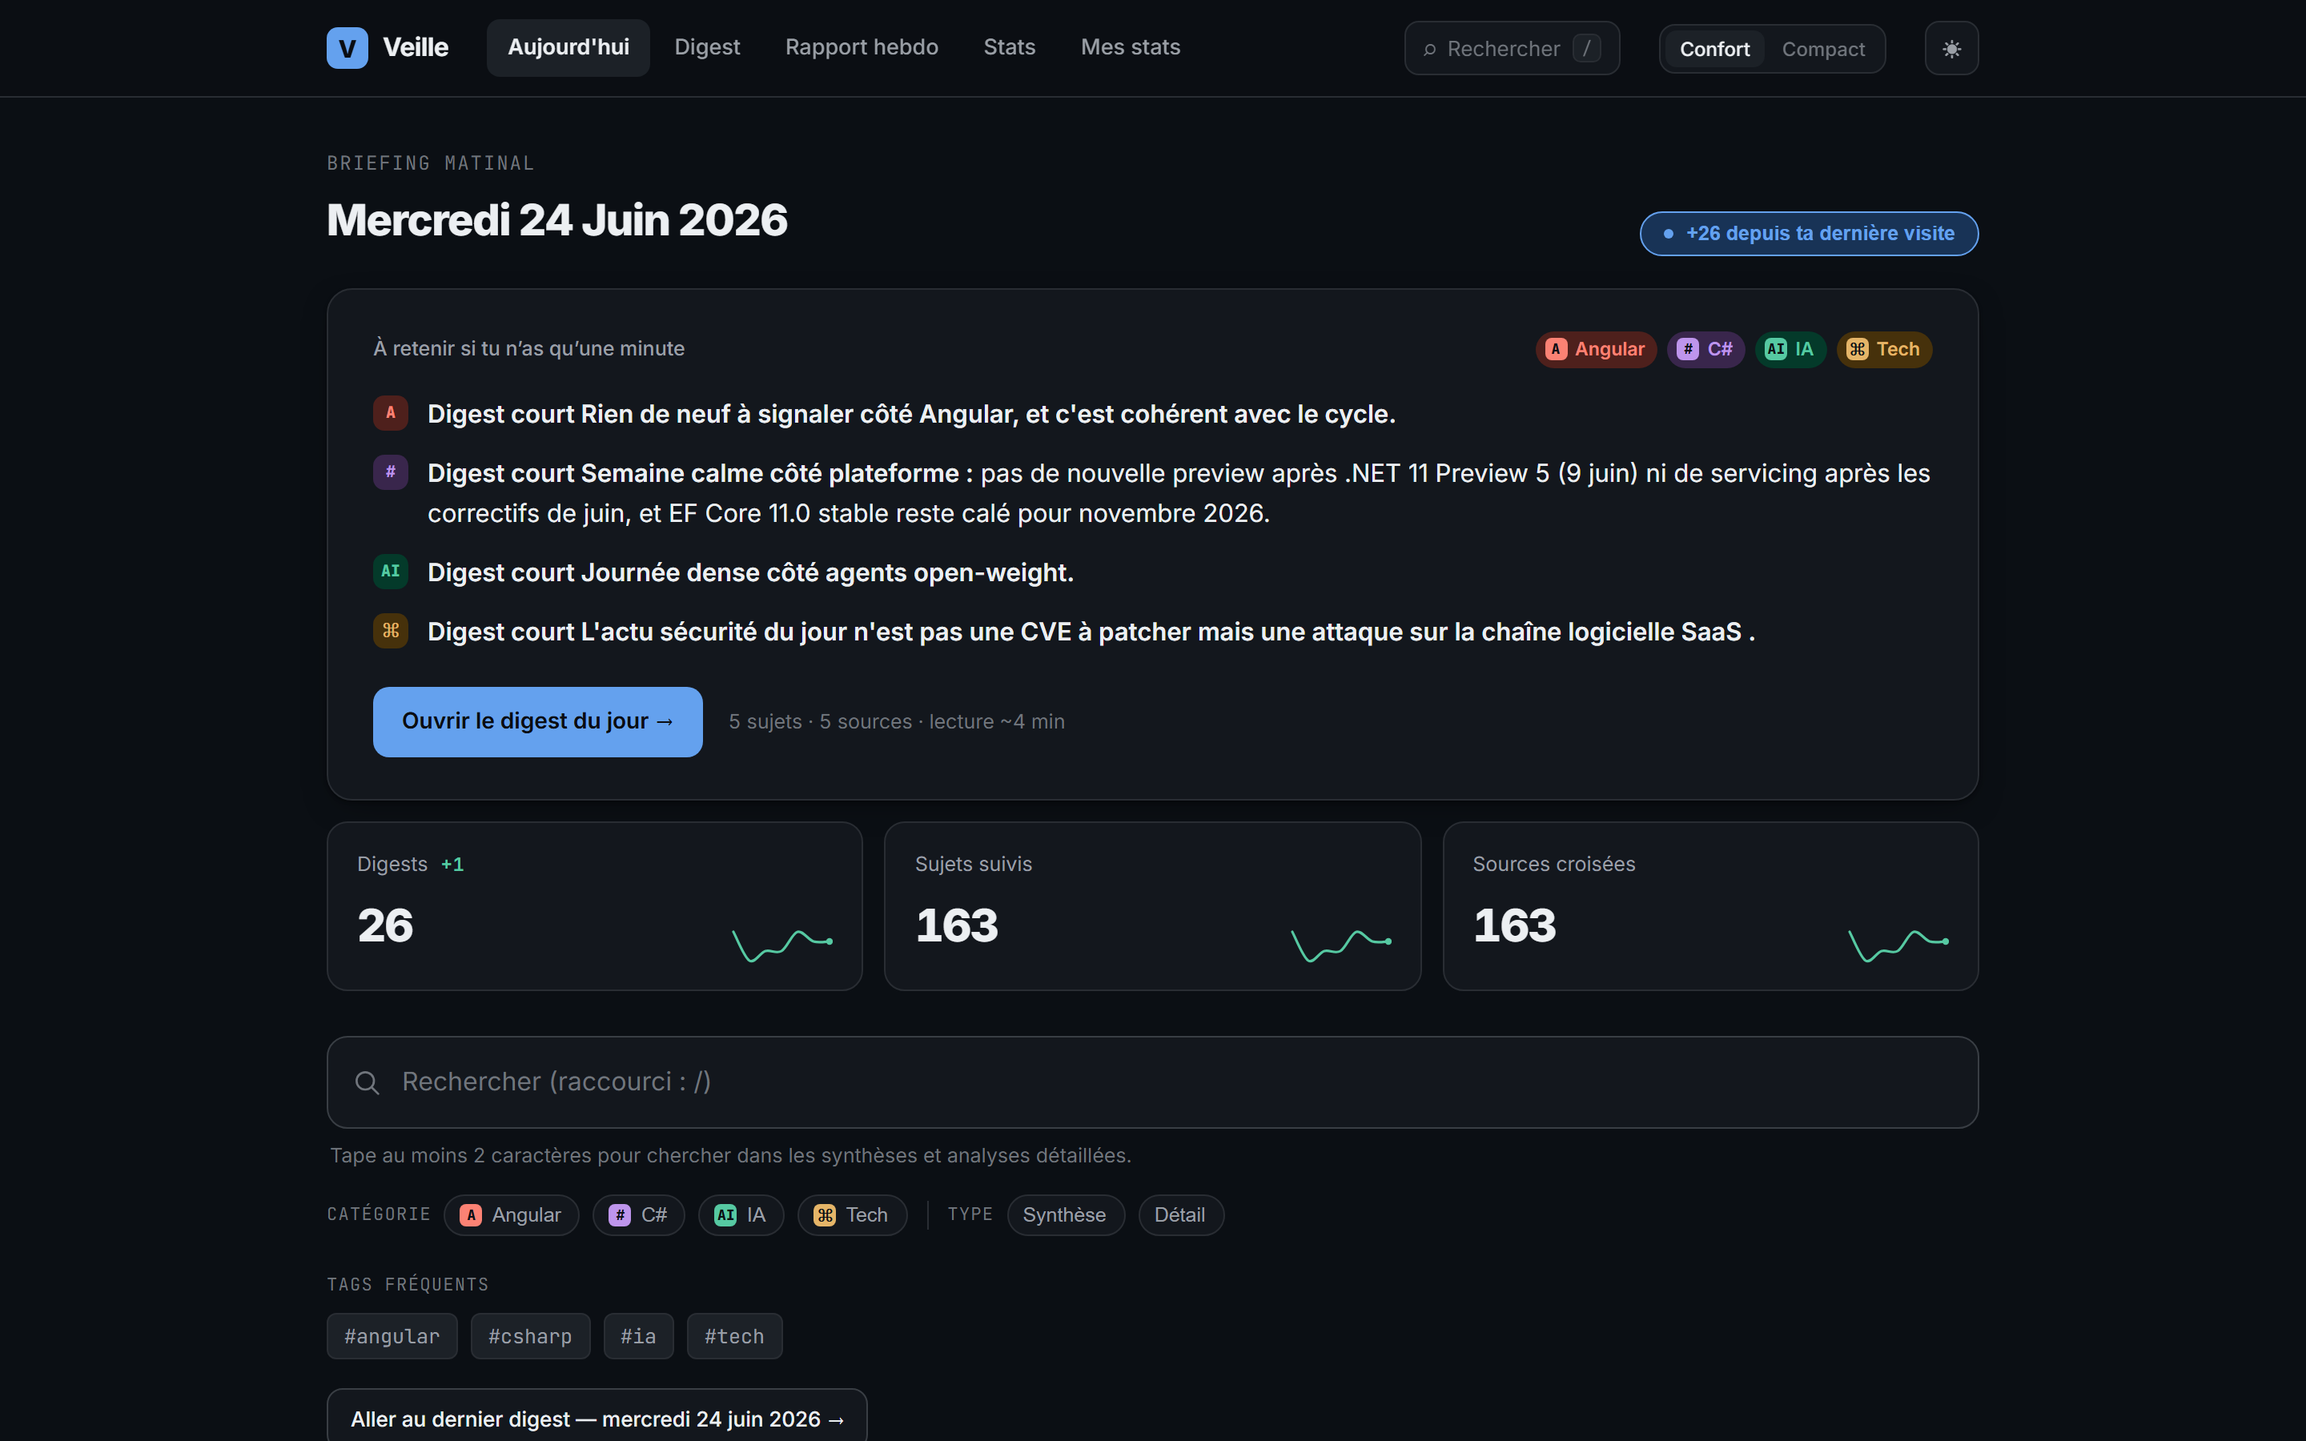
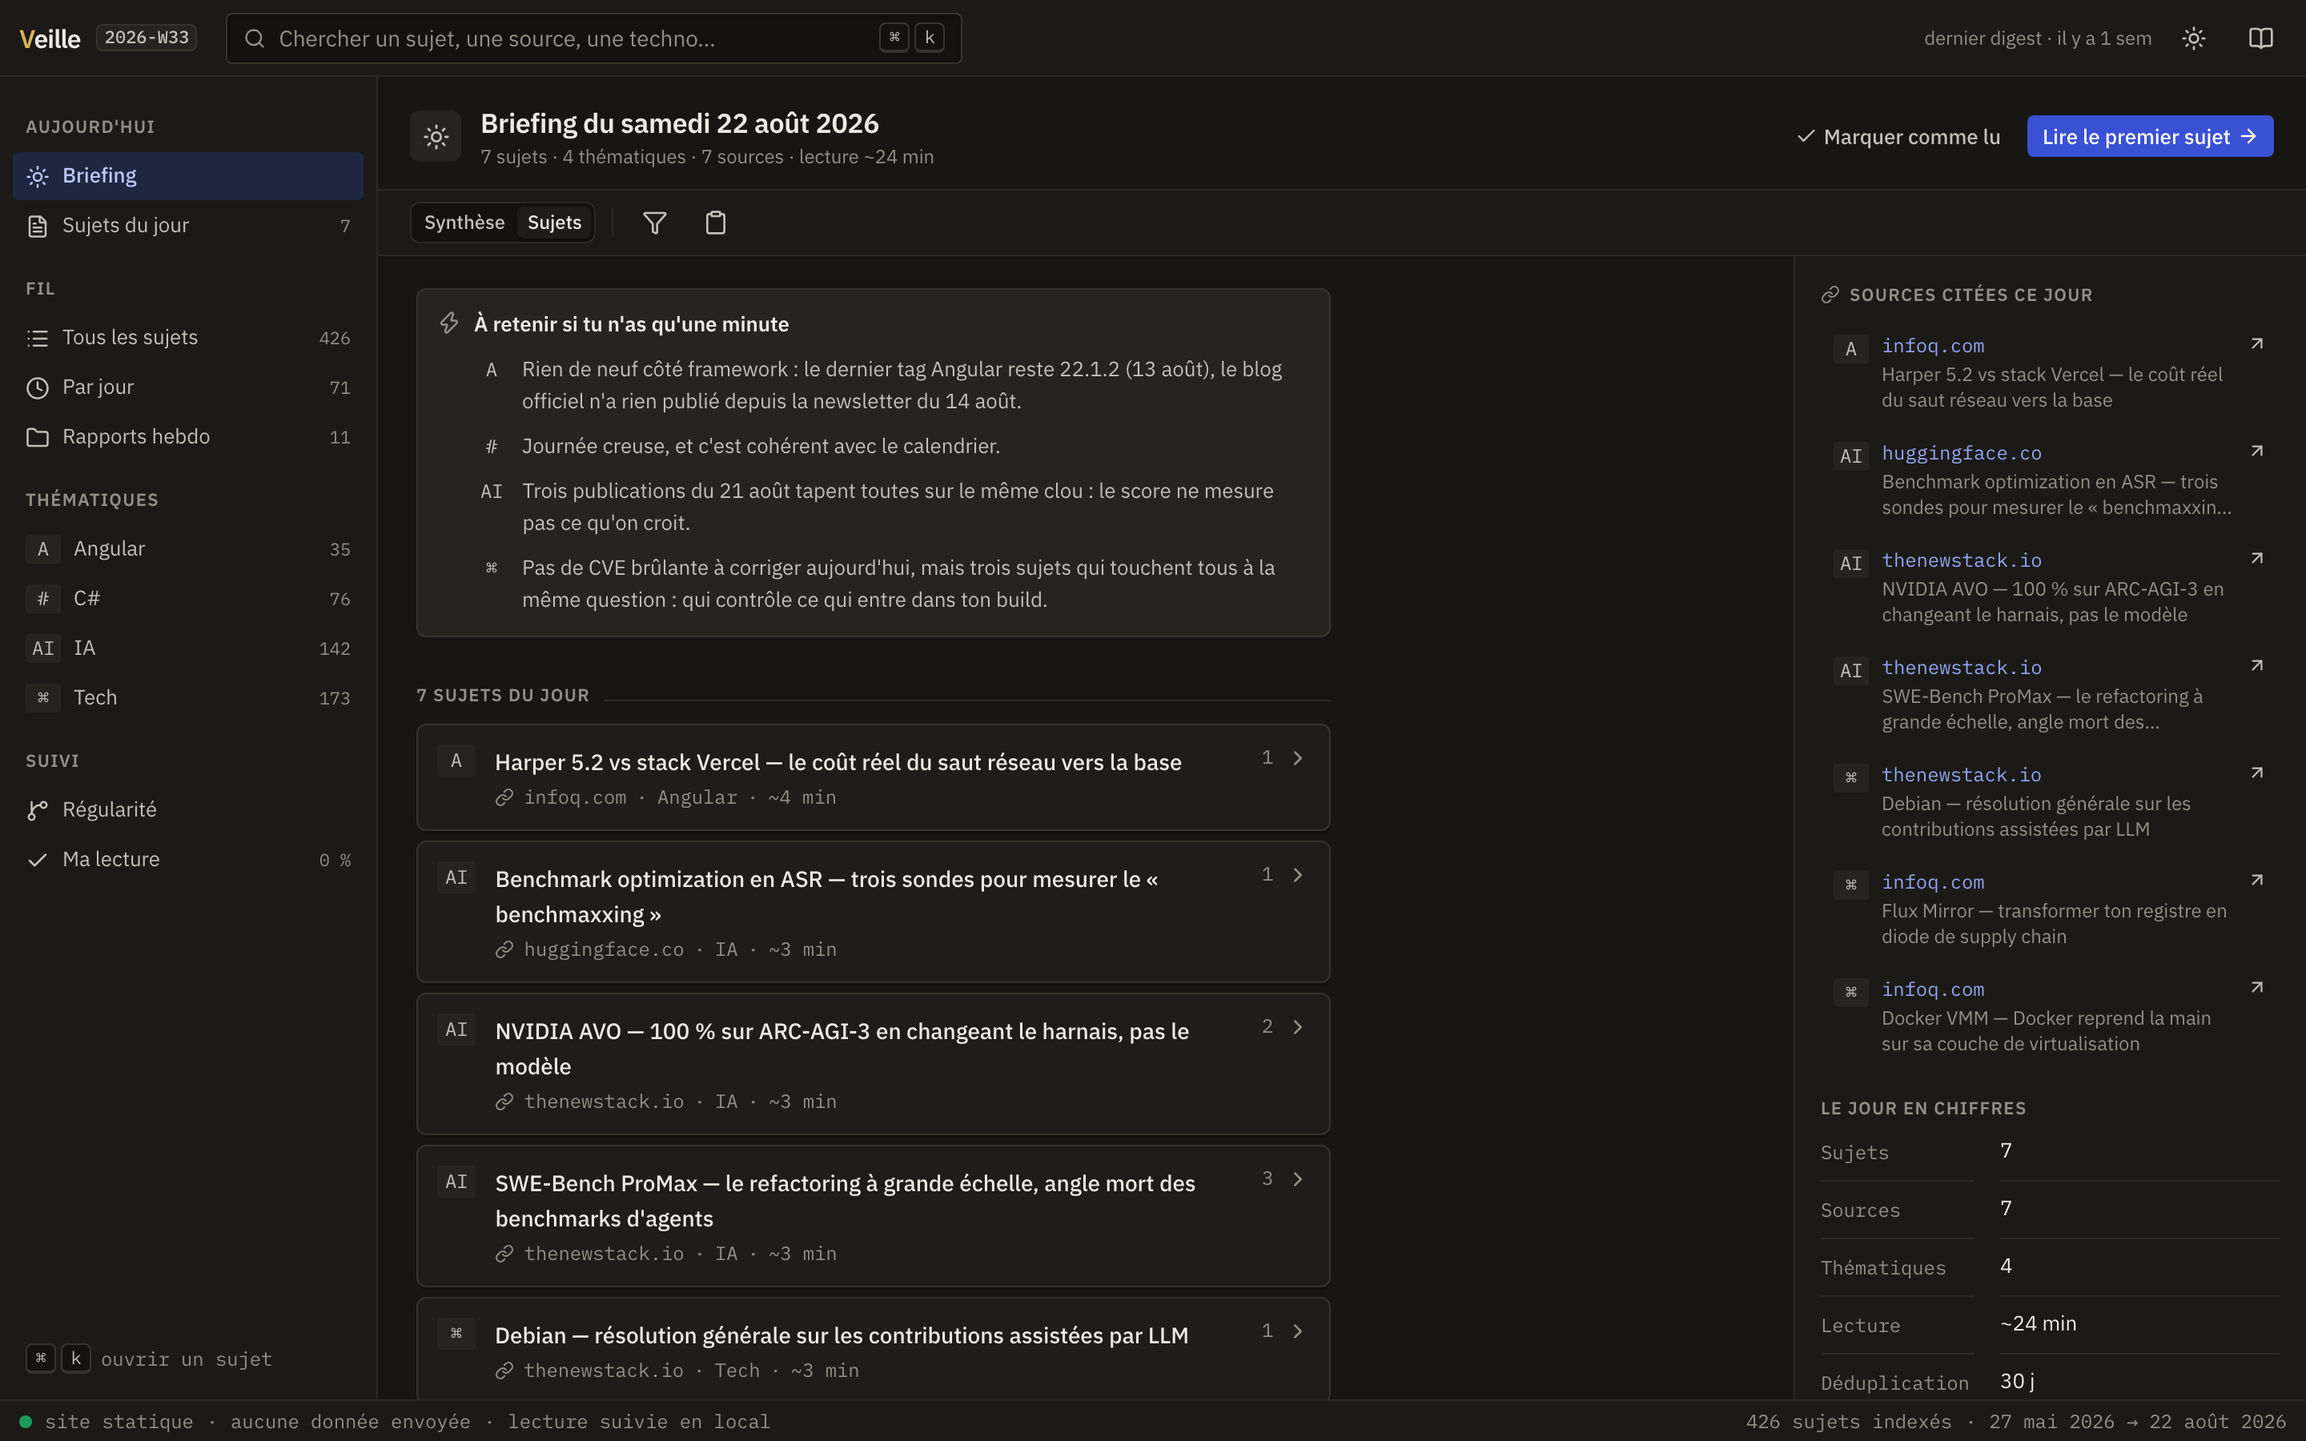
docs: actualiser la documentation et les captures après la refonte

diff --git a/README.md b/README.md
@@ -37,7 +37,7 @@ Des routines planifiées parcourent chaque jour l'actualité des thématiques su
 ---
 
 <div align="center">
-  <img src="docs/screenshots/home.png" alt="Page d'accueil — briefing du jour, KPIs et recherche" width="80%" />
+  <img src="docs/screenshots/home.png" alt="Briefing du jour — ce qu'il faut retenir, les sujets, les sources" width="80%" />
 </div>
 
 ## <img src="https://api.iconify.design/lucide/info.svg?color=%236366f1" width="22" height="22" alt="" /> En bref
@@ -68,28 +68,32 @@ Le tout est déduit du contenu : ajouter une thématique ne demande **aucune lig
 
 ## <img src="https://api.iconify.design/lucide/image.svg?color=%236366f1" width="22" height="22" alt="" /> Aperçu
 
-| Briefing du jour | Vue détaillée d'un rapport |
+| Briefing du jour | Lecture d'un sujet |
 |---|---|
-| ![Accueil](docs/screenshots/home.png) | ![Digest](docs/screenshots/digest.png) |
-| **Statistiques & régularité** | **Rapports hebdomadaires** |
-| ![Stats](docs/screenshots/stats.png) | ![Rapports](docs/screenshots/rapports.png) |
+| ![Briefing](docs/screenshots/home.png) | ![Lecteur de sujet](docs/screenshots/digest.png) |
+| **Le fil — tous les sujets** | **Régularité** |
+| ![Fil](docs/screenshots/fil.png) | ![Régularité](docs/screenshots/stats.png) |
+| **Rapports hebdomadaires** | **Thème clair** |
+| ![Rapports](docs/screenshots/rapports.png) | ![Thème clair](docs/screenshots/home-light.png) |
 
 <div align="center">
-  <img src="docs/screenshots/home-light.png" alt="Thème clair" width="48%" />
-  <img src="docs/screenshots/mobile-home.png" alt="Vue mobile" width="22%" />
+  <img src="docs/screenshots/mobile-home.png" alt="Vue mobile" width="24%" />
 </div>
 
-<p align="center"><em>Thème clair/sombre · responsive jusqu'au mobile.</em></p>
+<p align="center"><em>Sous 900px, le rail devient une barre d'onglets et le tiroir « … » ouvre la navigation complète.</em></p>
 
 ## <img src="https://api.iconify.design/lucide/list-checks.svg?color=%236366f1" width="22" height="22" alt="" /> Fonctionnalités
 
-- **Briefing quotidien** — « à retenir en 1 minute », accès direct au dernier digest, badge « nouveau ».
-- **Recherche plein-texte** — index construit au build, snippets surlignés, filtres par catégorie / type (synthèse, détail) / tags.
-- **Page rapport** — onglets par catégorie, bascule synthèse ↔ détail, sujets dépliables, sources citées.
-- **Statistiques** — heatmap de régularité, courbe de volume, répartition par catégorie, KPIs.
-- **Rapports hebdomadaires** — synthèses transversales par semaine ISO.
+- **Briefing du jour** — « à retenir en 1 minute » par thématique, les sujets du jour, les sources citées, les chiffres du jour, et les jours précédents à portée de clic.
+- **Lecteur de sujet** — un mini-cours par sujet : sommaire, source primaire, enchaînement précédent/suivant, plus deux vues alternatives (« code seul », « sources »). Permalien `?sujet=<thématique>-<n>`.
+- **Le fil** — les 400+ sujets de tous les jours dans un tableau dense, filtrable par thématique et par période.
+- **Par jour** — l'historique, une accroche générée par digest.
+- **Palette ⌘K** — recherche par titre de sujet, puis plein texte sur le corps des digests ; navigation au clavier.
+- **Régularité** — heatmap façon GitHub, courbe de volume, répartition de l'effort par thématique.
+- **Rapports hebdomadaires** — synthèses transversales par semaine ISO, plage de dates dérivée de l'identifiant.
+- **Ma lecture** — suivi lu/non-lu tenu en local (`localStorage`), jamais envoyé.
 - **Code & diagrammes** — coloration syntaxique **au build** (Shiki, thème dual light/dark), diagrammes **Mermaid** rendus côté client en lazy.
-- **Thème clair/sombre** persistant, mode confort/compact, accessible (axe-core en CI).
+- **Thème clair/sombre** persistant, profondeur de lecture mémorisée, accessible (axe-core + Lighthouse en CI).
 
 ## <img src="https://api.iconify.design/lucide/workflow.svg?color=%236366f1" width="22" height="22" alt="" /> Comment ça marche
 
@@ -119,6 +123,7 @@ Veille/
 ├── docs/                   # Documentation (archi, design, captures)
 ├── config/                 # Vhosts Apache (templates versionnés)
 ├── archive/                # Anciens rapports gelés (dont recaps quotidiens)
+├── compose.yaml            # Environnement local (build statique + nginx)
 └── DIGEST_FORMAT.md        # Contrat de format imposé aux routines
 ```
 
@@ -144,11 +149,27 @@ Architecture **data-driven** :
 
 App **Angular 20** standalone (signals, control-flow natif, `inject()`), **statique** (SSG/prerender) — aucun backend.
 
+### Avec Docker (recommandé)
+
+```bash
+docker compose up --build   # → http://localhost:4200
+```
+
+Le conteneur **construit** le site statique puis le sert avec nginx, en reprenant
+les en-têtes du vhost de production (CSP stricte, repli SPA, cache long sur les
+assets hashés). Pas de serveur de développement : après une modification du code
+ou de `report/`, relancer `docker compose up --build`.
+
+Image finale : **~43 Mo** — le build Node vit dans une étape jetée.
+
+### En local
+
 ```bash
 cd web
 npm install
-npm run dev      # http://localhost:4200
-npm run build    # → web/dist/veille/browser/ (statique)
+npm run generate   # obligatoire au premier lancement : émet src/app/data/generated/
+npm start          # http://localhost:4200
+npm run build      # → web/dist/veille/browser/ (statique, prebuild inclus)
 ```
 
 | Script | Rôle |
@@ -179,8 +200,8 @@ Configuration Apache (templates) : [`config/README.md`](config/README.md).
 | [`DIGEST_FORMAT.md`](DIGEST_FORMAT.md) | Contrat de format des rapports |
 | [`web/README.md`](web/README.md) | Détails techniques du viewer Angular |
 | [`docs/architecture-report.md`](docs/architecture-report.md) | Rapport d'architecture (migration Svelte → Angular) |
-| [`docs/design-analysis.md`](docs/design-analysis.md) | Analyse UX/UI + direction visuelle |
-| [`docs/claude-design-brief.md`](docs/claude-design-brief.md) | Brief de redesign pour Claude Design |
+| [`docs/design-analysis.md`](docs/design-analysis.md) | Analyse UX/UI + direction visuelle (le *pourquoi*) |
+| [`docs/claude-design-brief.md`](docs/claude-design-brief.md) | Brief de refonte remis à Claude Design — **réalisé** |
 
 ## <img src="https://api.iconify.design/lucide/copy-x.svg?color=%236366f1" width="22" height="22" alt="" /> Déduplication
 

diff --git a/web/README.md b/web/README.md
@@ -64,6 +64,33 @@ the ISO week id from the filename (overridable via optional `week`/`range` front
 newest-first `weeklies` list. Surfaced at `/rapports` (list) and `/rapports/:week` (one report,
 rendered via `MarkdownComponent`).
 
+## Local environment
+
+Docker, from the **repo root** (the build context is the root: the generator reads `report/`):
+
+```bash
+docker compose up --build   # → http://localhost:4200
+```
+
+Two stages: a throwaway Node stage runs `npm run build` (generator + prerender), then
+`nginx:alpine-slim` serves `dist/veille/browser`. Final image **~43 MB**. No dev server and no
+bind mount — rebuild after each change. In exchange, what you browse locally is byte-for-byte what
+production serves, under the same headers.
+
+`web/docker/nginx.conf` mirrors `config/veille-le-ssl.conf.template`: SPA fallback, the strict CSP,
+`immutable` caching on hashed assets, `no-cache` on `index.html`. Two nginx specifics worth knowing:
+
+- `absolute_redirect off` — otherwise a directory request is answered with a 301 rebuilt from the
+  internal listen port (80), which breaks behind the `4200:80` publish.
+- `try_files $uri $uri/index.html` rather than `$uri/` — serves the prerendered directory index
+  without a trailing-slash redirect.
+- `add_header` does not inherit into a `location` that declares one, hence the shared
+  `security-headers.conf` included in each block.
+
+Without Docker: `npm install && npm run generate && npm start` for a dev server with hot reload.
+**`npm run generate` is required first** — `ng serve` does not trigger the `prebuild` hook, and
+`src/app/data/generated/` is git-ignored, so a fresh clone has nothing to import.
+
 ## Scripts
 
 ```bash
@@ -86,23 +113,39 @@ npm run lighthouse      # @lhci/cli autorun against the built static site
 ## Architecture
 
 ```
+src/
+  styles.css                        # 3 layers: Établi tokens, legacy bridge, shared app chrome
+  styles/
+    tokens/*.css                    # Établi design tokens (verbatim vendoring)
+    etabli-ui.css                   # Établi component classes (.etb-*)
 src/app/
-  app.ts / app.html / app.css       # shell: skip-link, sticky header, nav, theme toggle, footer
+  app.ts / app.html / app.css       # shell: 48px top bar, 236px rail, 26px status bar
   app.routes.ts                     # lazy routes
   app.routes.server.ts              # prerender params (getPrerenderParams) for :date / :week
+  ui/                               # Établi primitives, Angular side
+    icon (+ icon.data.ts) / button / icon-button / badge / kbd
+    callout / key-value-list / panel / segmented-control
+  layout/
+    shell-nav.component.ts          # grouped rail, rendered in the rail and the mobile drawer
+    command-palette.component.ts    # ⌘K: subject titles first, then full text
   core/
     date.util.ts / date.pipe.ts     # single FR date utility + `frDate` pipe
+    content.util.ts                 # anchors/TOC, code-only view, links, first sentence
+    source.util.ts                  # source domain extraction
     theme.service.ts                # dark/light, localStorage 'veille-theme', data-theme attr
     seen.service.ts                 # "new" tracking, localStorage 'veille-last-seen-date'
     search.service.ts               # lazy search-index.json, <mark> snippet building
+    subject-index.service.ts        # lazy subject-index.json, title search
     digest-store.service.ts         # reads index.ts, lazy-loads via loaders.ts
   shared/
     markdown.component.ts           # [innerHTML] + bypassSecurityTrustHtml (content pre-sanitized)
-    heatmap / bar-chart / line-chart # SVG charts
+    heatmap / bar-chart / line-chart / donut  # SVG charts
   features/
-    home/                           # SearchBox + DigestCard + results
-    digest/                         # DigestPage → DigestTabs → DetailSnippet
-    stats/                          # KPI grid + 3 charts
+    briefing/                       # BriefingPage → BriefingView | SubjectReader (?sujet=)
+    fil/                            # every subject, filtered by theme and period
+    jours/                          # day history, one generated headline per digest
+    stats/                          # KPI grid + 3 panels
+    stats-perso/                    # local read tracking
     rapports/                       # weekly list + per-week report (markdown)
   data/
     types.ts                        # shared data contract
@@ -112,5 +155,12 @@ tools/
     build-data.test.mjs             # node:test helper specs
 ```
 
-Theme variables, dark/light palettes and `.markdown` typography are ported verbatim into
-`src/styles.css`.
+`/digest/:date` renders the day's briefing; `?sujet=<slug>-<index>` switches the same route to
+the subject reader. That keeps a shareable permalink per subject without prerendering one page
+per subject (426 today) — only the 71 days are prerendered.
+
+`src/styles.css` layers the Établi design system over a bridge of legacy aliases (`--bg`,
+`--accent`, `--cat-*`, `--heatmap-*`) that TypeScript still builds by string interpolation
+(`DigestStore.accentFor`, `HeatmapComponent.levelFor`). Renaming those breaks code, not just CSS.
+Shared screen chrome (`.screen*`, `.side-panel`, `.kpi*`, `.row-card`) lives there too: the
+`anyComponentStyle` budget caps each component stylesheet at 8 kB.

diff --git a/docs/claude-design-brief.md b/docs/claude-design-brief.md
@@ -1,5 +1,13 @@
 # Veille — Brief de design (handoff pour « Claude Design »)
 
+> **✅ Brief réalisé.** La refonte issue de ce handoff est en place. Le design system
+> (« Établi ») est vendu dans `web/src/styles/tokens/` et `web/src/styles/etabli-ui.css` ;
+> ses primitives Angular sont dans `web/src/app/ui/`. L'architecture d'information finale
+> est décrite dans [`../web/README.md`](../web/README.md) — elle diffère de ce brief sur un
+> point : `/digest/:date` rend le **briefing** du jour, et `?sujet=<thématique>-<n>` bascule
+> la même route en **lecteur de sujet** (un permalien par sujet, sans prérendre 426 pages).
+> Ce document reste la référence de l'**intention** ; le code fait foi sur le **détail**.
+
 > **À toi, Claude Design.** Tu vas refondre le front-end de Veille. Ce document décrit **l'expérience entière, l'intention, le contenu, chaque écran et chaque état, les composants, l'IA, l'accessibilité et les données** dont tu disposes. Tu as **toute latitude sur le style visuel** (palette exacte, valeurs en pixels, typo précise, ombres, courbes) — c'est ton métier, pas le mien. Je suis précis sur le **quoi / le comportement / le ressenti**, volontairement souple sur le **comment visuel**.
 >
 > Les **opinions et recommandations priorisées** (et leur justification) sont dans [`design-analysis.md`](./design-analysis.md). Je n'y reviens pas ; je m'y réfère. Le **contrat de données** fait foi : [`../DIGEST_FORMAT.md`](../DIGEST_FORMAT.md). Contexte technique : [`./architecture-report.md`](./architecture-report.md).

diff --git a/docs/architecture-report.md b/docs/architecture-report.md
@@ -2,6 +2,12 @@
 
 > Diagnostic généré dans le cadre de la migration front Svelte → Angular + refonte CI/CD.
 > Section **AVANT** = état au démarrage du chantier. Section **APRÈS** = à compléter en fin de chantier.
+>
+> **⚠ Document daté.** Les correspondances de composants ci-dessous décrivent l'app telle
+> qu'elle sortait de la migration. La refonte « Établi » a depuis remplacé `HomeComponent`,
+> `SearchBoxComponent`, `DigestCardComponent`, `DigestPageComponent`, `DigestTabsComponent`
+> et `DetailSnippetComponent` par `features/briefing/`, `features/fil/` et `features/jours/`.
+> L'inventaire à jour est dans [`../web/README.md`](../web/README.md).
 
 ---
 
